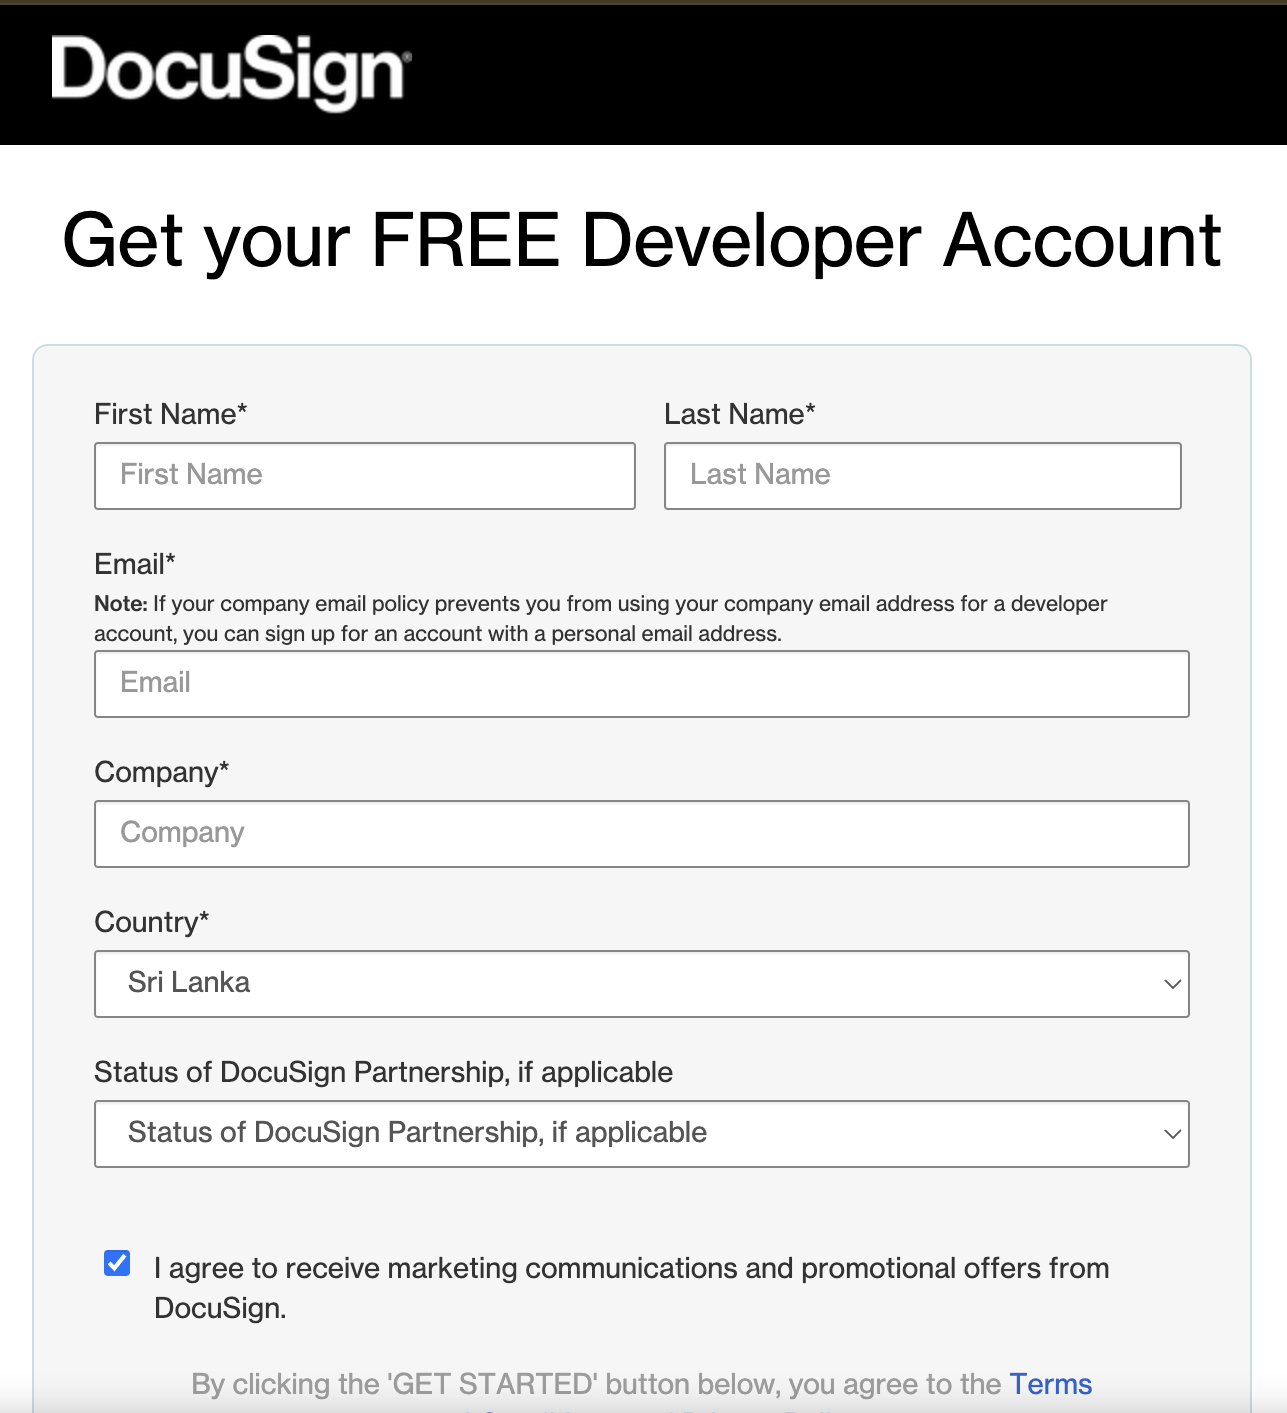
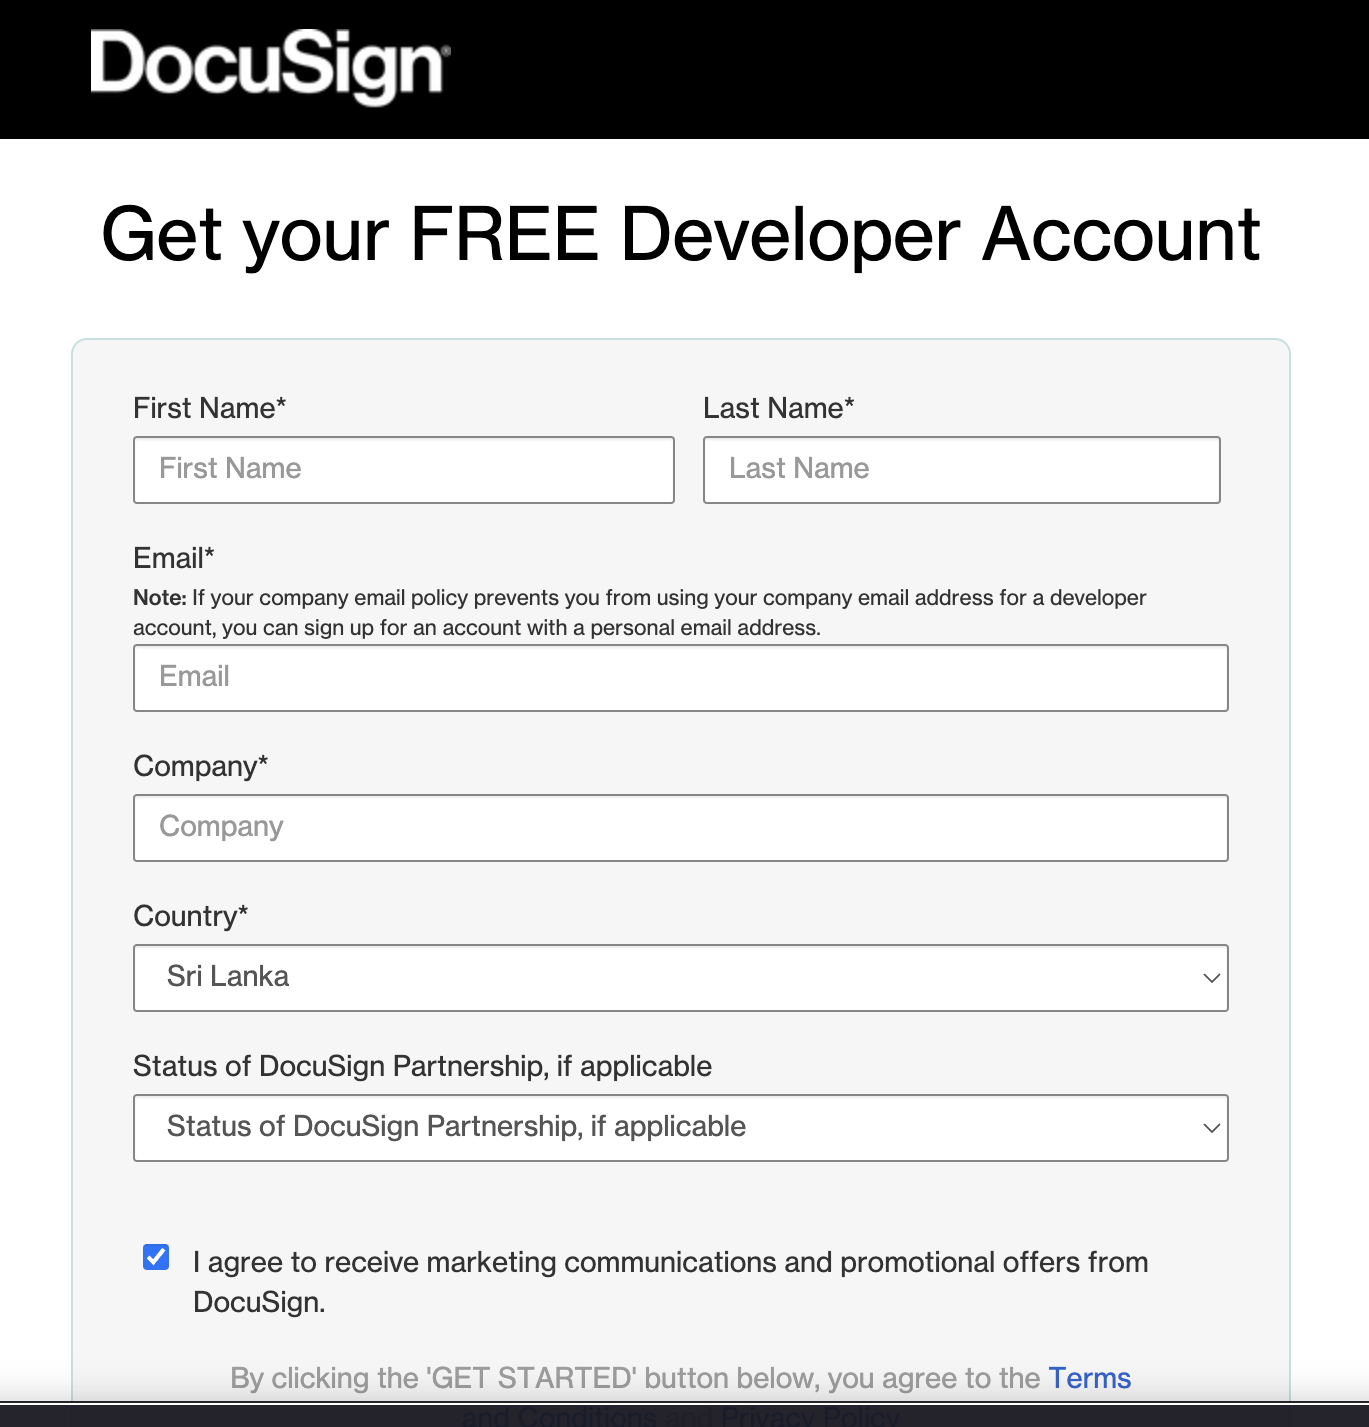
Update documentation files with images

diff --git a/README.md b/README.md
@@ -26,19 +26,26 @@ To utilize the eSignature connector, you must have access to the DocuSign REST A
 
 In order to use the DocuSign eSignature connector, you need to first create the DocuSign credentials for the connector to interact with DocuSign.
 
-You can [create an account](https://go.docusign.com/o/sandbox/) for free at the [Developer Center](https://developers.docusign.com/).
+- You can [create an account](https://go.docusign.com/o/sandbox/) for free at the [Developer Center](https://developers.docusign.com/).
+
+    <img src="https://github.com/ballerina-platform/module-ballerinax-docusign.esign/ballerina/resources/create-account.png" alt="Create DocuSign Account" width="50%">
 
 ### Step 2: Create Integration Key and Secret Key
 
 1. **Create an Integration Key and Secret Key**: Visit the [Apps and Keys](https://admindemo.docusign.com/apps-and-keys) page on DocuSign. Click on "Add App and Integration Key", provide an App name, and click "Create App". This will generate an Integration Key.
 
+    <img src="https://github.com/ballerina-platform/module-ballerinax-docusign.esign/ballerina/resources/app-and-integration-key.png" alt="Create Integration Key" width="50%">
+
 2. **Generate a Secret Key**: Under the Authentication section, click on "Add Secret Key". This will generate a Secret Key. Make sure to copy and save both the Integration Key and Secret Key.
+
+    <img src="https://github.com/ballerina-platform/module-ballerinax-docusign.esign/ballerina/resources/add-secret-key.png" alt="Create DocuSign Account" width="50%">
 
 ### Step 3: Generate Access Token
 
 1. **Add a Redirect URI**: Click on "Add URI" and enter your redirect URI (e.g., <http://www.example.com/callback>).
+    <img src="https://github.com/ballerina-platform/module-ballerinax-docusign.esign/ballerina/resources/add-redirect-uri.png" alt="Create DocuSign Account" width="50%">
 
-2. **Generate the Encoded Key**: The Encoded Key is a base64 encoded string of your Integration Key and Secret Key in the format `{IntegrationKey:SecretKey}`. You can generate this in your web browser's console using the `btoa()` function: `btoa('IntegrationKey:SecretKey')`.
+2. **Generate the Encoded Key**: The Encoded Key is a base64 encoded string of your Integration Key and Secret Key in the format `{IntegrationKey:SecretKey}`. You can generate this in your web browser's console using the `btoa()` function: `btoa('IntegrationKey:SecretKey')`. You can either generate the encoded key from an online base64 encoder.
 
 3. **Get the Authorization Code**: Visit the following URL in your web browser, replacing `{iKey}` with your Integration Key and `{redirectUri}` with your Redirect URI:
 
@@ -61,6 +68,8 @@ You can [create an account](https://go.docusign.com/o/sandbox/) for free at the 
     The response will contain your Access Token.
 
 Remember to replace `{IntegrationKey:SecretKey}`, `{iKey}`, `{redirectUri}`, `{encodedKey}`, and `{codeFromUrl}` with your actual values.
+
+Above is about using the DocuSign eSignature APIs in the developer mode. If your app is ready to go live, you need to follow the guidelines given [here](https://developers.docusign.com/docs/esign-rest-api/go-live/) to make it work.
 
 ## Quickstart
 

diff --git a/ballerina/Module.md b/ballerina/Module.md
@@ -12,19 +12,27 @@ To utilize the eSignature connector, you must have access to the DocuSign REST A
 
 In order to use the DocuSign eSignature connector, you need to first create the DocuSign credentials for the connector to interact with DocuSign.
 
-You can [create an account](https://go.docusign.com/o/sandbox/) for free at the [Developer Center](https://developers.docusign.com/).
+* You can [create an account](https://go.docusign.com/o/sandbox/) for free at the [Developer Center](https://developers.docusign.com/).
+
+    ![Create DocuSign Account](resources/create-account.png)
 
 ### Step 2: Create Integration Key and Secret Key
 
 1. **Create an Integration Key and Secret Key**: Visit the [Apps and Keys](https://admindemo.docusign.com/apps-and-keys) page on DocuSign. Click on "Add App and Integration Key", provide an App name, and click "Create App". This will generate an Integration Key.
 
+    ![Create Integration Key](resources/app-and-integration-key.png)
+
 2. **Generate a Secret Key**: Under the Authentication section, click on "Add Secret Key". This will generate a Secret Key. Make sure to copy and save both the Integration Key and Secret Key.
+
+    ![Add Secret Key](resources/app-and-integration-key.png)
 
 ### Step 3: Generate Access Token
 
 1. **Add a Redirect URI**: Click on "Add URI" and enter your redirect URI (e.g., <http://www.example.com/callback>).
 
-2. **Generate the Encoded Key**: The Encoded Key is a base64 encoded string of your Integration Key and Secret Key in the format `{IntegrationKey:SecretKey}`. You can generate this in your web browser's console using the `btoa()` function: `btoa('IntegrationKey:SecretKey')`.
+    ![Add Redirect URI](resources/add-redirect-uri.png)
+
+2. **Generate the Encoded Key**: The Encoded Key is a base64 encoded string of your Integration Key and Secret Key in the format `{IntegrationKey:SecretKey}`. You can generate this in your web browser's console using the `btoa()` function: `btoa('IntegrationKey:SecretKey')`. You can either generate the encoded key from an online base64 encoder.
 
 3. **Get the Authorization Code**: Visit the following URL in your web browser, replacing `{iKey}` with your Integration Key and `{redirectUri}` with your Redirect URI:
 
@@ -47,6 +55,8 @@ You can [create an account](https://go.docusign.com/o/sandbox/) for free at the 
     The response will contain your Access Token.
 
 Remember to replace `{IntegrationKey:SecretKey}`, `{iKey}`, `{redirectUri}`, `{encodedKey}`, and `{codeFromUrl}` with your actual values.
+
+Above is about using the DocuSign eSignature APIs in the developer mode. If your app is ready to go live, you need to follow the guidelines given [here](https://developers.docusign.com/docs/esign-rest-api/go-live/) to make it work.
 
 ## Quickstart
 

diff --git a/ballerina/Package.md b/ballerina/Package.md
@@ -12,19 +12,27 @@ To utilize the eSignature connector, you must have access to the DocuSign REST A
 
 In order to use the DocuSign eSignature connector, you need to first create the DocuSign credentials for the connector to interact with DocuSign.
 
-You can [create an account](https://go.docusign.com/o/sandbox/) for free at the [Developer Center](https://developers.docusign.com/).
+* You can [create an account](https://go.docusign.com/o/sandbox/) for free at the [Developer Center](https://developers.docusign.com/).
+
+    ![Create DocuSign Account](resources/create-account.png)
 
 ### Step 2: Create Integration Key and Secret Key
 
 1. **Create an Integration Key and Secret Key**: Visit the [Apps and Keys](https://admindemo.docusign.com/apps-and-keys) page on DocuSign. Click on "Add App and Integration Key", provide an App name, and click "Create App". This will generate an Integration Key.
 
+    ![Create Integration Key](resources/app-and-integration-key.png)
+
 2. **Generate a Secret Key**: Under the Authentication section, click on "Add Secret Key". This will generate a Secret Key. Make sure to copy and save both the Integration Key and Secret Key.
+
+    ![Add Secret Key](resources/app-and-integration-key.png)
 
 ### Step 3: Generate Access Token
 
 1. **Add a Redirect URI**: Click on "Add URI" and enter your redirect URI (e.g., <http://www.example.com/callback>).
 
-2. **Generate the Encoded Key**: The Encoded Key is a base64 encoded string of your Integration Key and Secret Key in the format `{IntegrationKey:SecretKey}`. You can generate this in your web browser's console using the `btoa()` function: `btoa('IntegrationKey:SecretKey')`.
+    ![Add Redirect URI](resources/add-redirect-uri.png)
+
+2. **Generate the Encoded Key**: The Encoded Key is a base64 encoded string of your Integration Key and Secret Key in the format `{IntegrationKey:SecretKey}`. You can generate this in your web browser's console using the `btoa()` function: `btoa('IntegrationKey:SecretKey')`. You can either generate the encoded key from an online base64 encoder.
 
 3. **Get the Authorization Code**: Visit the following URL in your web browser, replacing `{iKey}` with your Integration Key and `{redirectUri}` with your Redirect URI:
 
@@ -47,6 +55,8 @@ You can [create an account](https://go.docusign.com/o/sandbox/) for free at the 
     The response will contain your Access Token.
 
 Remember to replace `{IntegrationKey:SecretKey}`, `{iKey}`, `{redirectUri}`, `{encodedKey}`, and `{codeFromUrl}` with your actual values.
+
+Above is about using the DocuSign eSignature APIs in the developer mode. If your app is ready to go live, you need to follow the guidelines given [here](https://developers.docusign.com/docs/esign-rest-api/go-live/) to make it work.
 
 ## Quickstart
 
